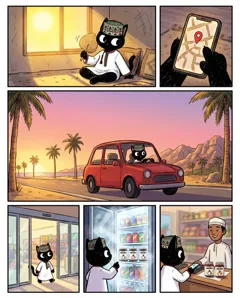
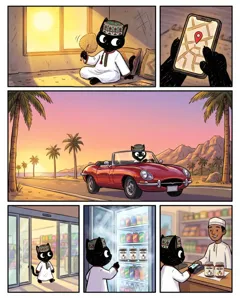
Studio 2.36.1: GTA VI collage as a mission (team notes): long dishdasha, nicer car, mission notice top-left
Claude-Session: https://claude.ai/code/session_01Y65H7WtUqfiVMD8EBb4AAe

diff --git a/sw.js b/sw.js
@@ -5,7 +5,7 @@
    - Supabase (sign-in, saved designs, team photos) is NEVER cached: those requests go straight to the network.
    - Share target (Android, installed app): photos shared from the gallery arrive as a POST to ./share-target; they wait in
      IndexedDB ('studio' › 'files' › 'studio:shared', the same store studio.js uses) and the hub opens a "pick a tool" sheet. */
-const VERSION='studio-v2-36-0';   // Studio 2.36.0
+const VERSION='studio-v2-36-1';   // Studio 2.36.1
 const SHELL=[
   './','index.html','manifest.webmanifest','whats-new.html','assets/whatsnew.css','assets/whatsnew.js','studio-notes/changelog.md',
   'assets/studio.css','assets/studio.js','assets/search.css','assets/search.js','assets/back.js','assets/templates.css','assets/templates.js','assets/batch.js','assets/stickers.js','assets/welcome.css','assets/welcome.js','assets/cloud.js','assets/config.js','assets/vendor/supabase.js',

diff --git a/assets/studio.js b/assets/studio.js
@@ -13,7 +13,7 @@ const PHOTO_MAX_PX=12e6; // a photo is kept at full quality up to 12 megapixels 
 const LS_OK=(()=>{ try{ return 'letterSpacing' in document.createElement('canvas').getContext('2d'); }catch(_){ return false; } })();
 const PIN=new Path2D("M128 16a88.1 88.1 0 0 0-88 88c0 75.3 80 132.17 83.41 134.55a8 8 0 0 0 9.18 0C136 236.17 216 179.3 216 104a88.1 88.1 0 0 0-88-88Zm0 56a32 32 0 1 1-32 32a32 32 0 0 1 32-32Z");
 /* Studio's version: semantic (fix = 0.1.1, feature = 0.2.0). The What's New page (whats-new.html) shows the notes from studio-notes/changelog.md. */
-const VERSION='2.36.0';
+const VERSION='2.36.1';
 const ROOT=(document.currentScript&&document.currentScript.src)?document.currentScript.src.replace(/assets\/studio\.js.*$/,''):'../';
 const BRANDS={};
 /* installable app: the service worker caches the app shell (never Supabase calls) */

diff --git a/studio-notes/changelog.md b/studio-notes/changelog.md
@@ -13,6 +13,13 @@ The What's New page in Studio (`whats-new.html`) reads this file. Keep the forma
 
 How the page shows it, with no extra work: the newest version is the hero card at the top (version, date, its lead line as the summary, its changes grouped New / Improved / Fixed with an icon heading; if there is no lead line, the card titles are joined instead). So give every version a short plain lead line right under its `##` heading. Older versions are one row each (version, date, one-line summary, chips such as "3 new · 2 fixed"); one tap opens it and shows every change with its note and screenshots at once (no nested sections). One filter row (All, New, Improved, Fixed) filters every version. `whats-new.html#v-2.3.0` opens that version.
 
+## 2.36.1 · 18 Nov 2026
+The GTA VI collage after the team's notes.
+
+### GTA VI collage: a mission, not a title
+type: improve
+The customer-mission collage now opens with a game-style mission notice top-left (NEW MISSION / GET THE COLD BREW, both editable), GTA VI bottom-left and the logo bottom-right, so nothing covers the middle. The cat at home wears a long dishdasha that covers his legs, and he drives a nicer red convertible.
+
 ## 2.36.0 · 18 Nov 2026
 GTA VI posts in Templates, with every word editable.
 
